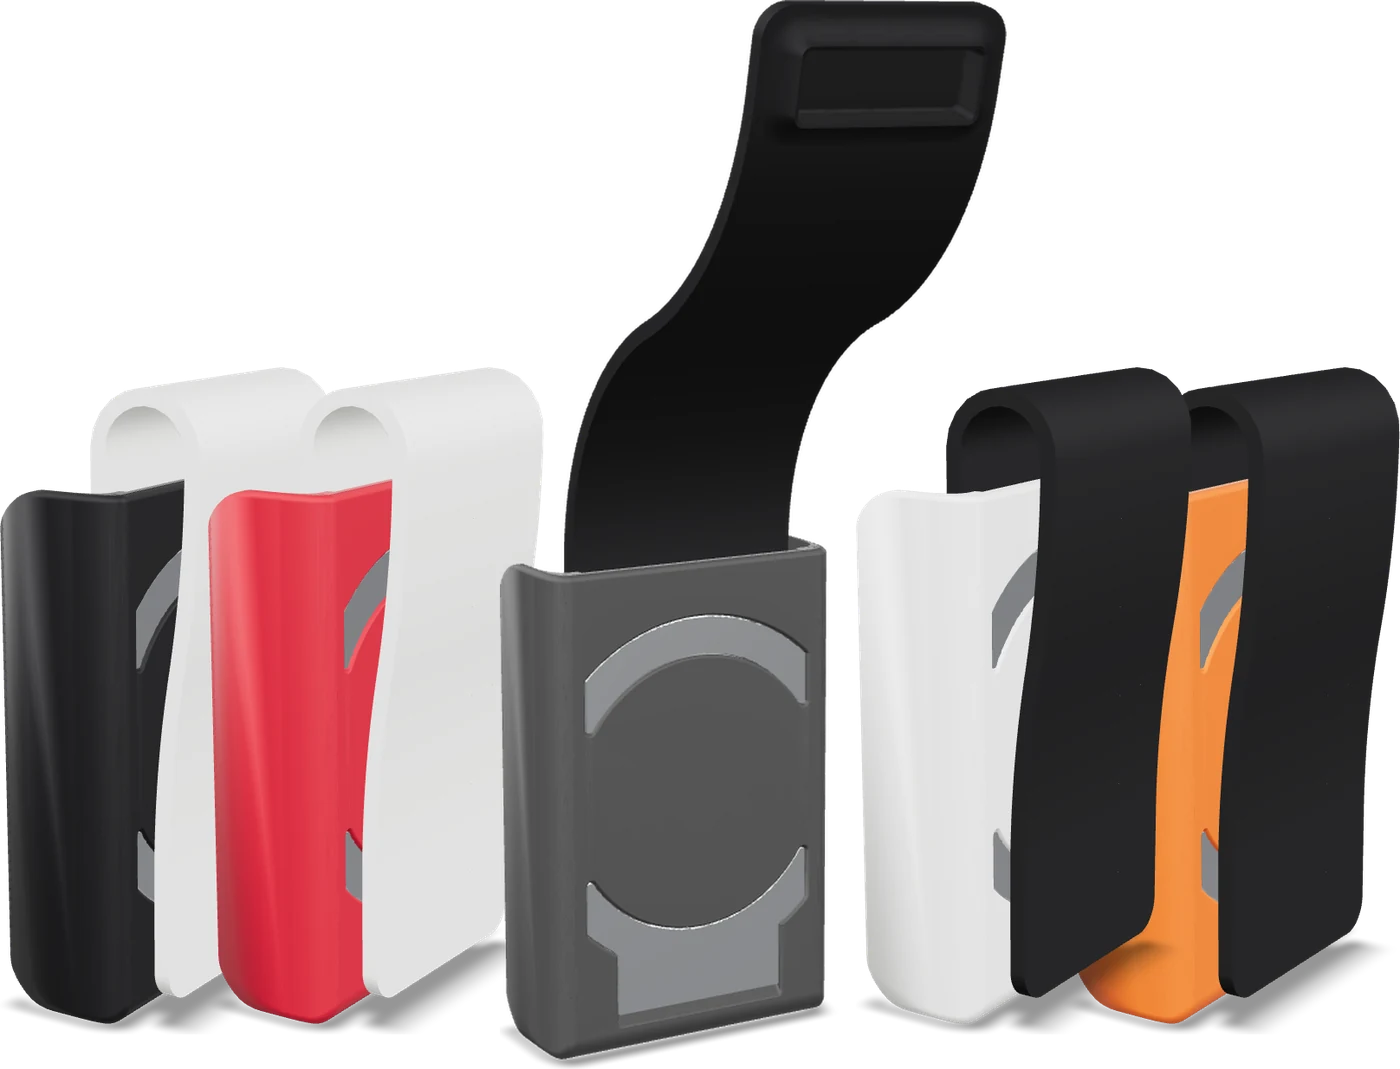
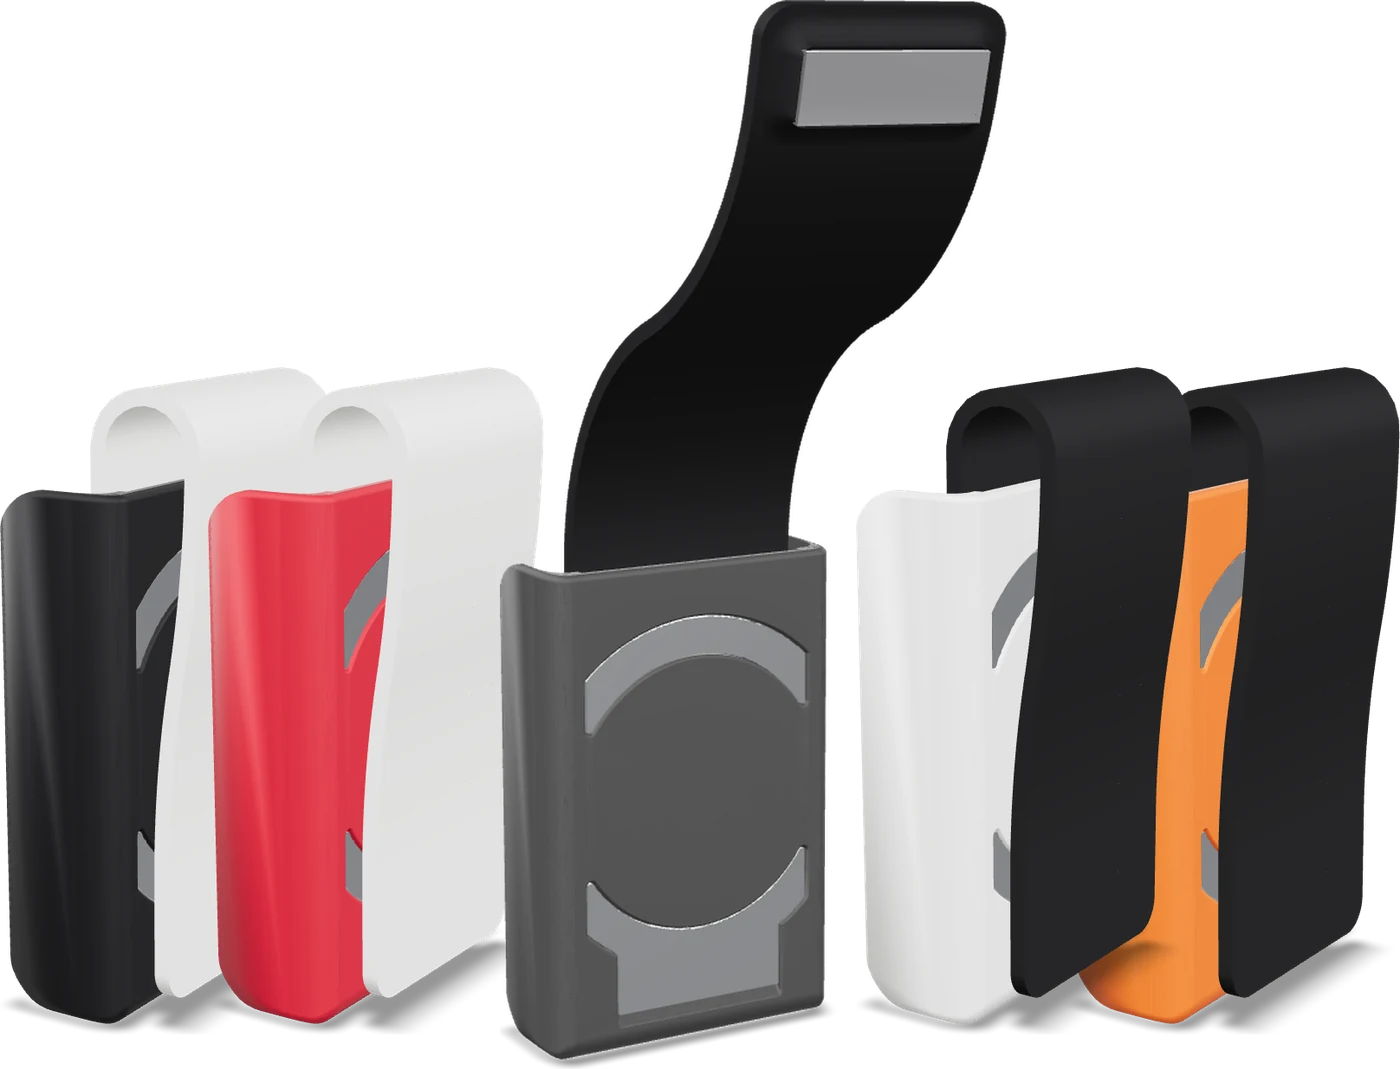
Add the strap magnet to the 3D model
A 30 x 10 x 5 mm nickel-plated magnet now sits in the pocket at the
strap tip and moves with the open/close animation. Hero lineup
re-rendered so the open strap shows it.

Claude-Session: https://claude.ai/code/session_018QMWRLmkbTcX7RejL2ZmzA

Changed region(s): [[0.5529, 0.0309, 0.7064, 0.1235]]

diff --git a/ilet.html b/ilet.html
@@ -137,7 +137,7 @@
           <div class="part">
             <p class="eyebrow">Strap</p>
             <h3>Flexible TPU</h3>
-            <p>A soft 130 mm strap with a 30 × 10 × 5 mm neodymium magnet set into the end. Black or white.</p>
+            <p>A soft 130 mm strap with a nickel-plated 30 × 10 × 5 mm neodymium magnet set into a pocket at the tip. Black or white.</p>
           </div>
         </div>
       </div>
